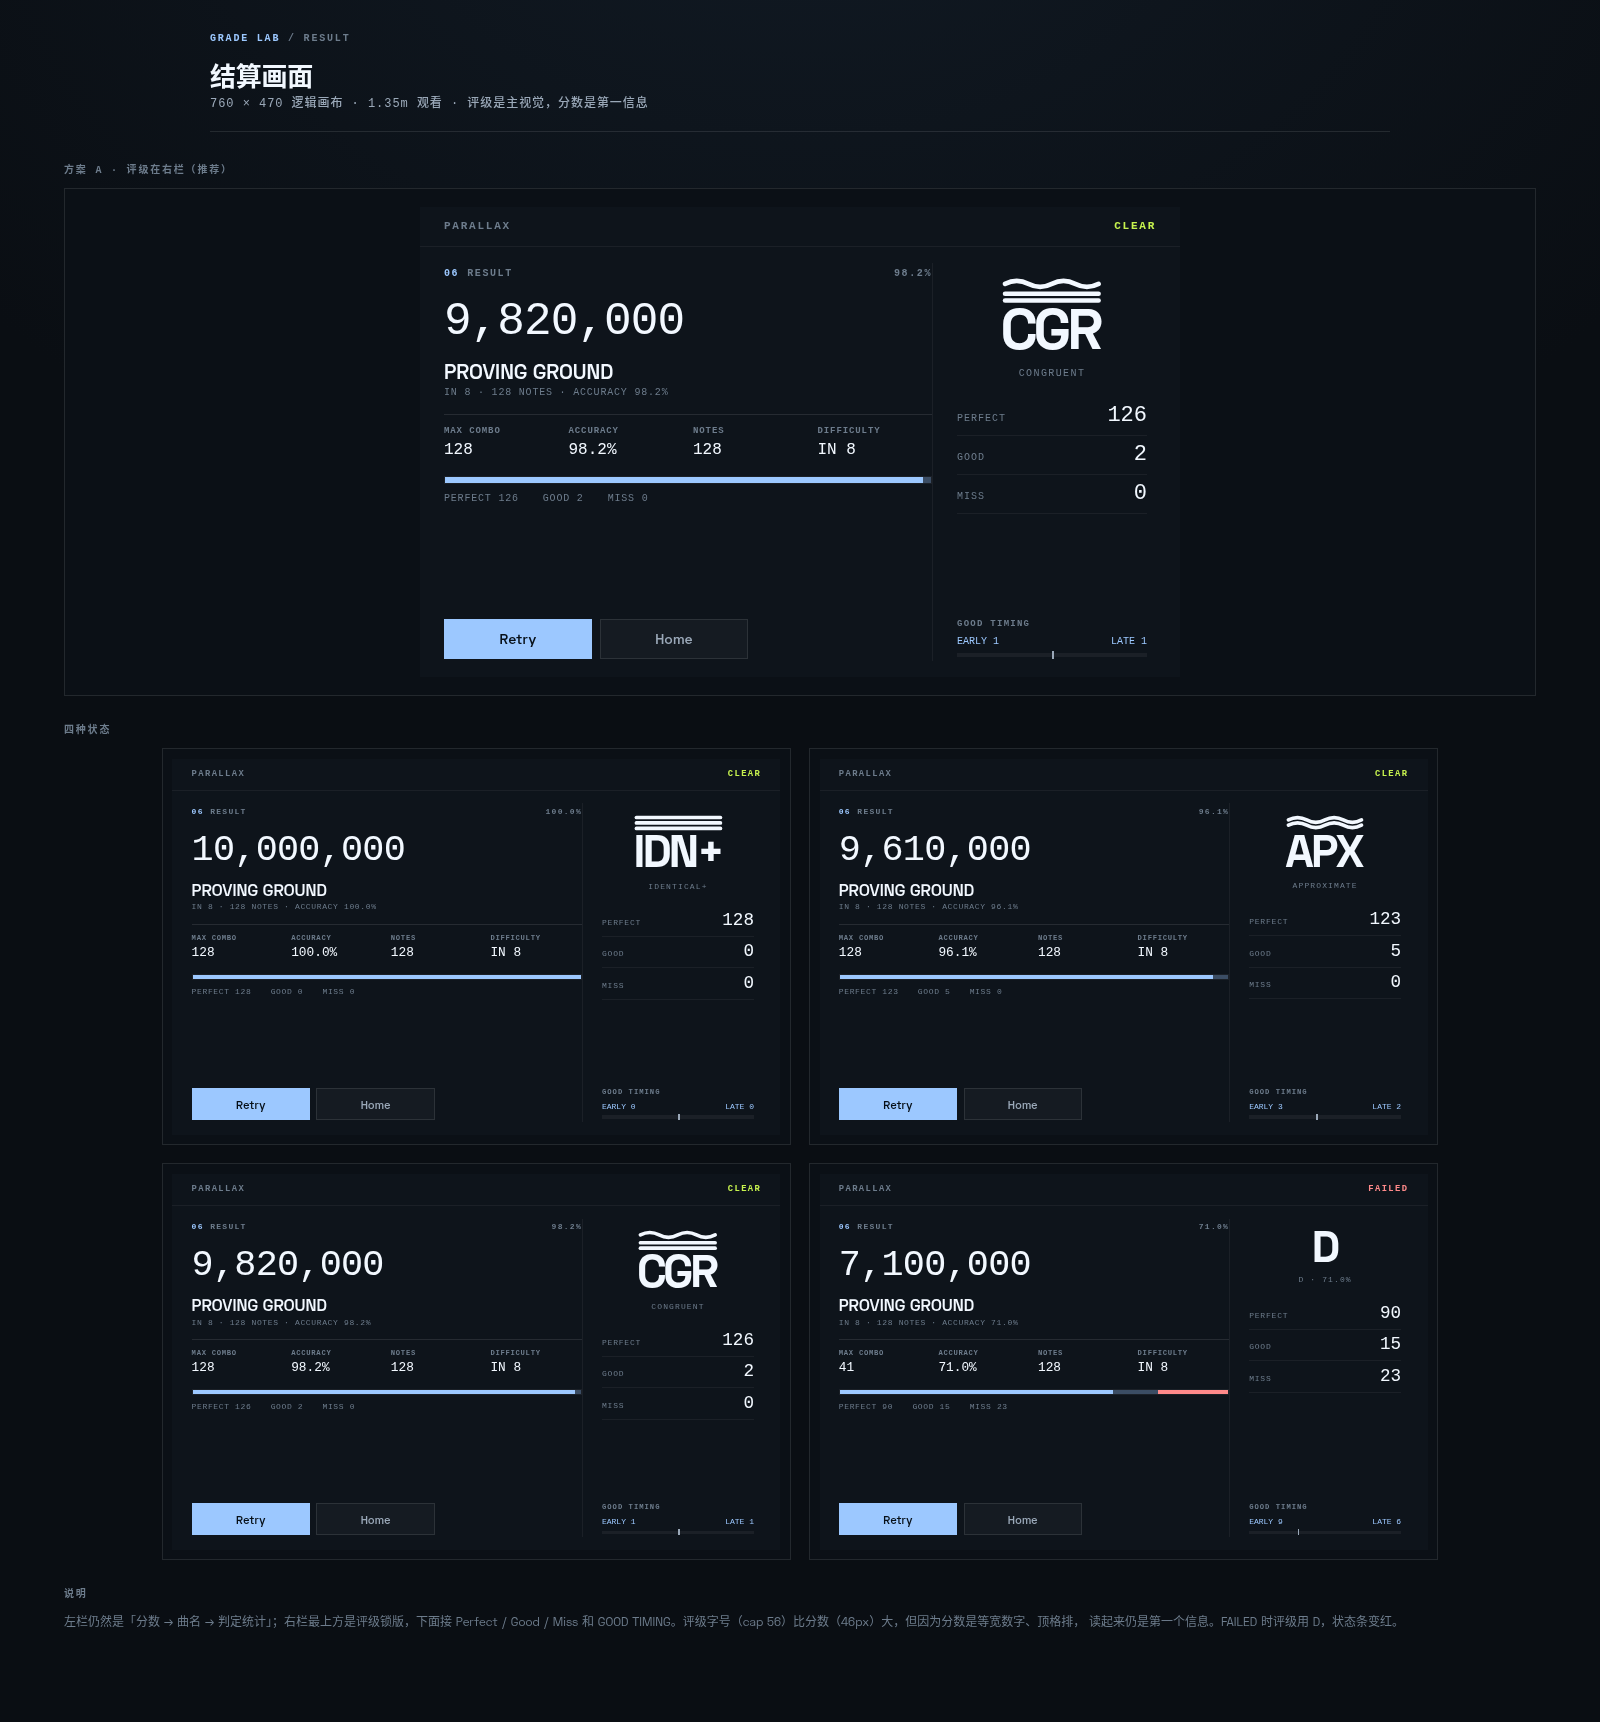
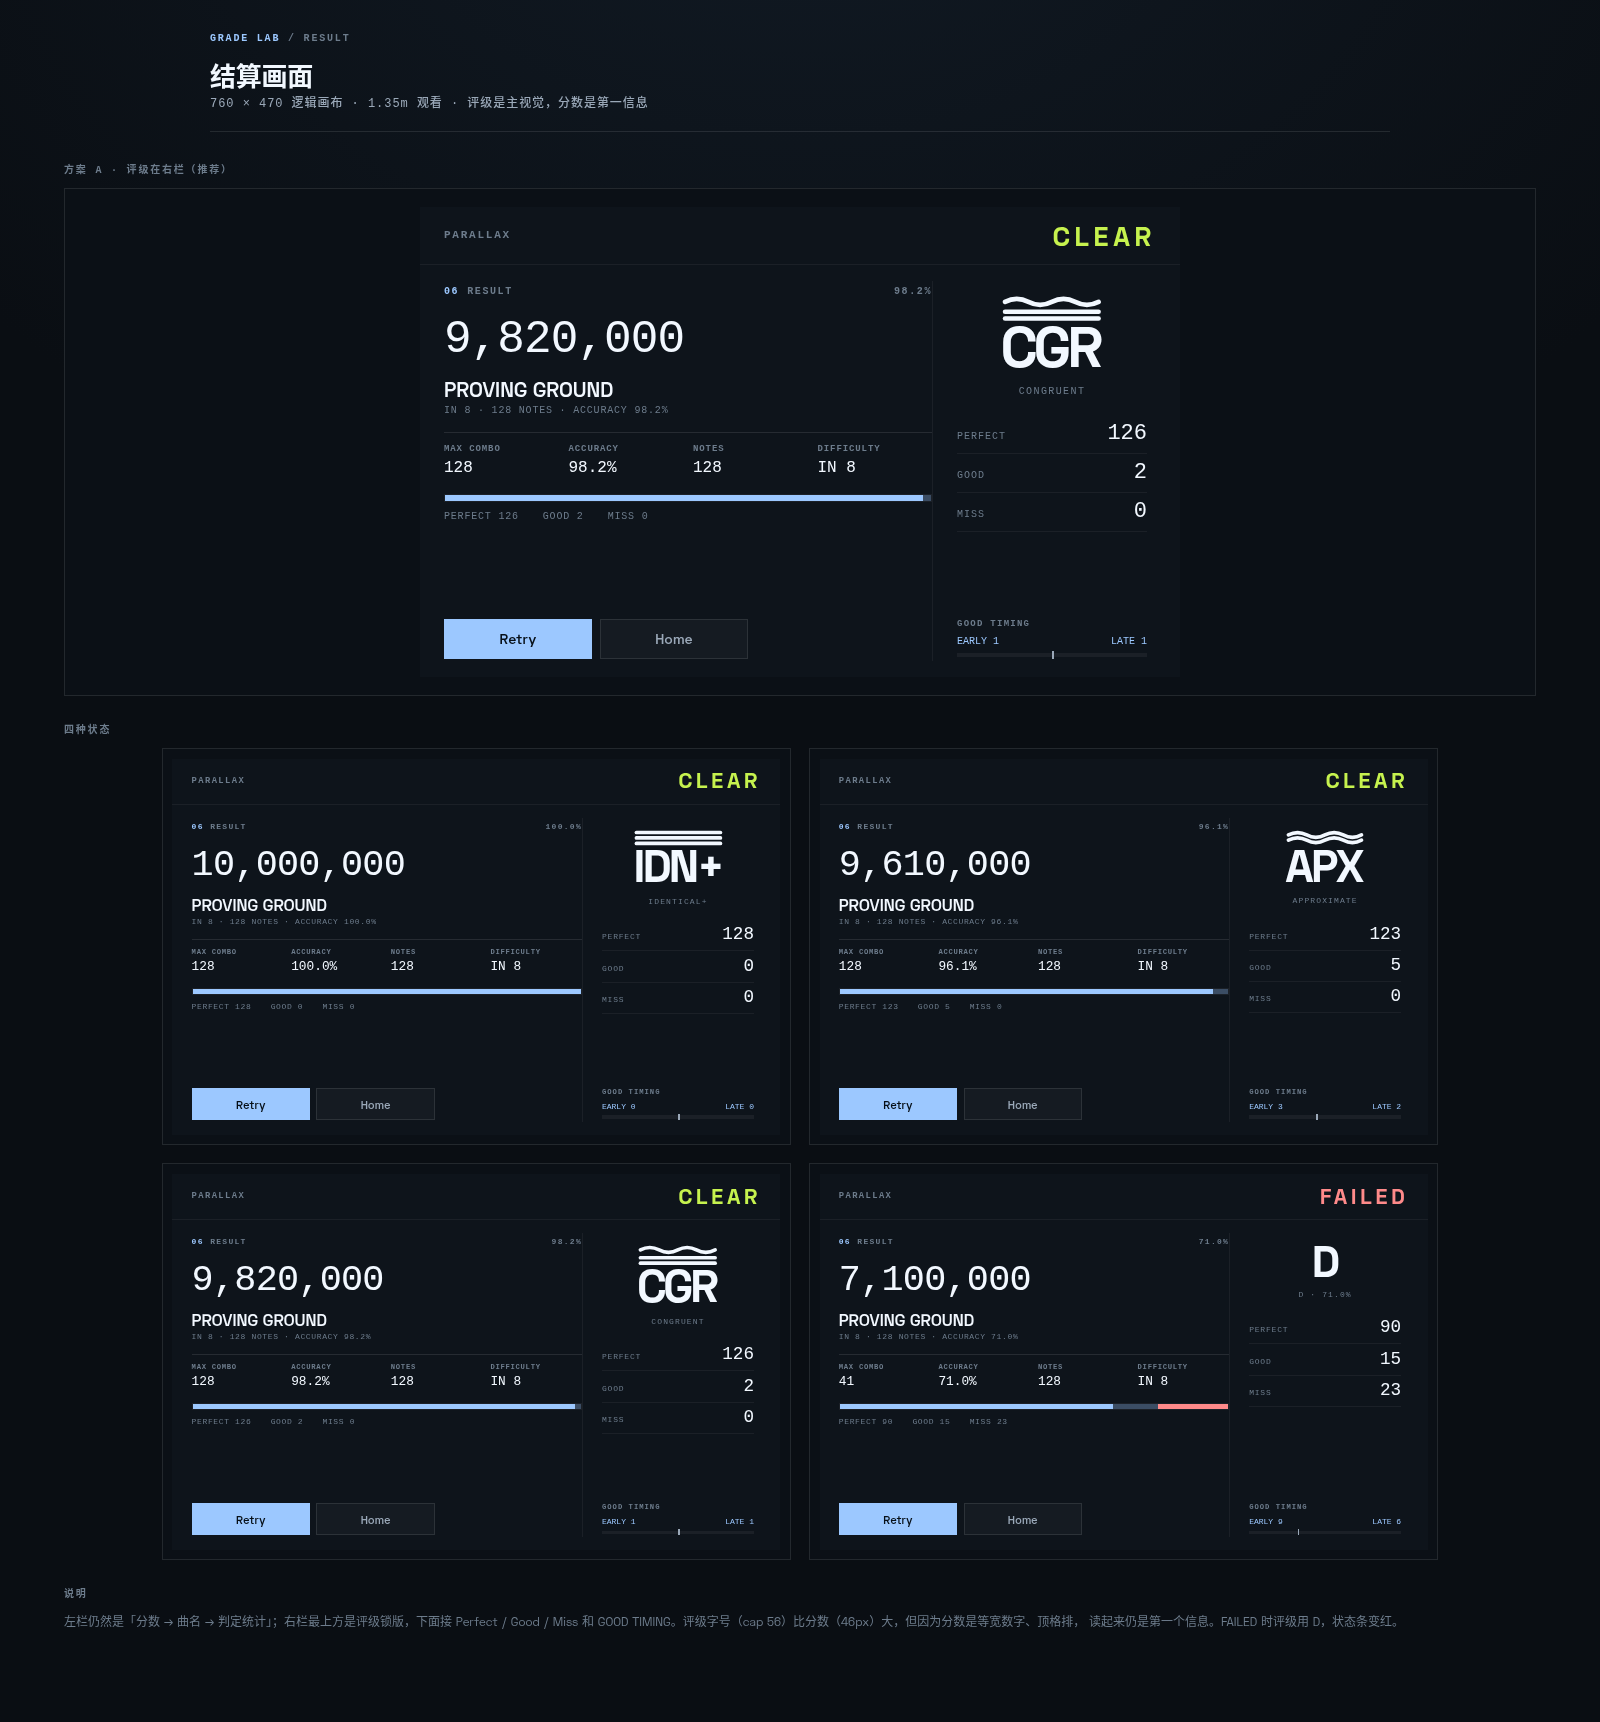
design(grade-lab): enlarge CLEAR/FAILED status

diff --git a/design/grade-lab/result.html b/design/grade-lab/result.html
@@ -33,7 +33,7 @@
       }
 
       .r-head {
-        height: 40px;
+        height: 58px;
         display: flex;
         align-items: center;
         justify-content: space-between;
@@ -46,6 +46,9 @@
 
       .r-status {
         color: var(--lime);
+        font: 700 27px/1 var(--display);
+        letter-spacing: 0.18em;
+        text-transform: uppercase;
       }
 
       .r-status.bad {
